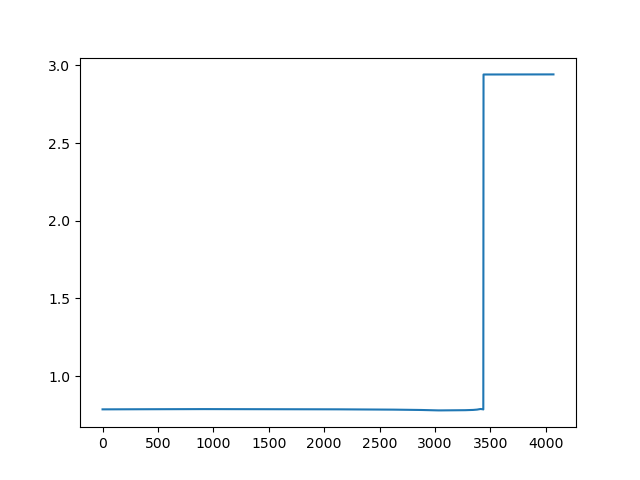
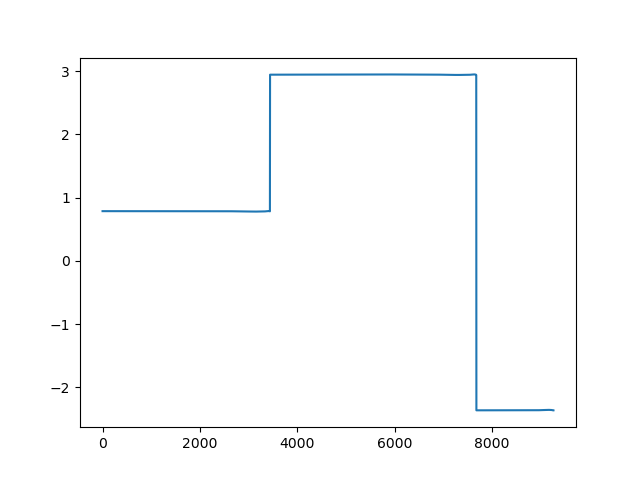
ходит по точкам, графики есть

diff --git a/scripts/talker.py b/scripts/talker.py
@@ -119,7 +119,8 @@ def talker():
     omega_const = k2 * (v_l_const)
 
     curPoint = 0
-    points = [(3, 3), (4, -2), (3, 3)]
+    points = [(3, 3), (4, -2), (3, -3)]
+    
     x_ref = points[curPoint][0]
     y_ref = points[curPoint][1]
     
@@ -149,8 +150,8 @@ def talker():
         x_k, y_k, phi_k, v, omega = go_to_point(x_k, y_k, phi_k, x_ref, y_ref, v_const, omega_const, dt)
 
         #if curPoint < len(points):
-        publish_str = "\n X: {:.5f}".format(x_k) + ' Y: ' + "{:.5f}".format(y_k) + ' Phi:' + "{:.5f}".format(phi_k)
-        rospy.loginfo(publish_str)
+        #publish_str = "\n X: {:.5f}".format(x_k) + ' Y: ' + "{:.5f}".format(y_k) + ' Phi:' + "{:.5f}".format(phi_k)
+        #rospy.loginfo(publish_str)
 
         if abs(x_k - x_ref) < eps and abs(y_k - y_ref) < eps:
             publish_str = "\n X: {:.5f}".format(x_k) + ' Y: ' + "{:.5f}".format(y_k) + ' Phi:' + "{:.5f}".format(phi_k)
